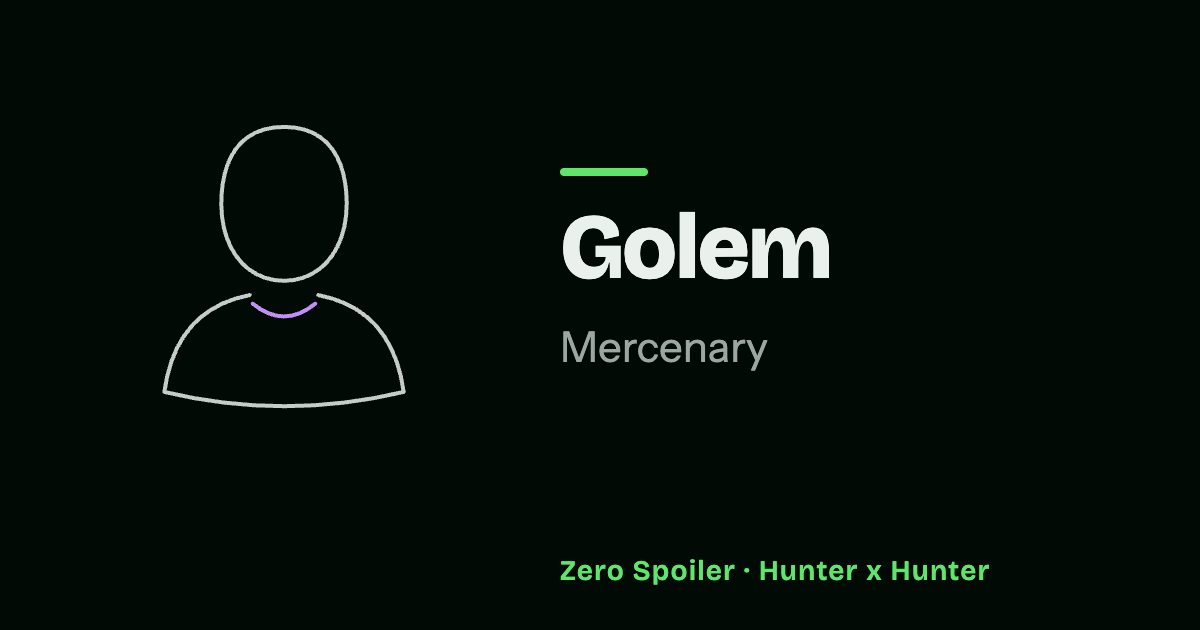
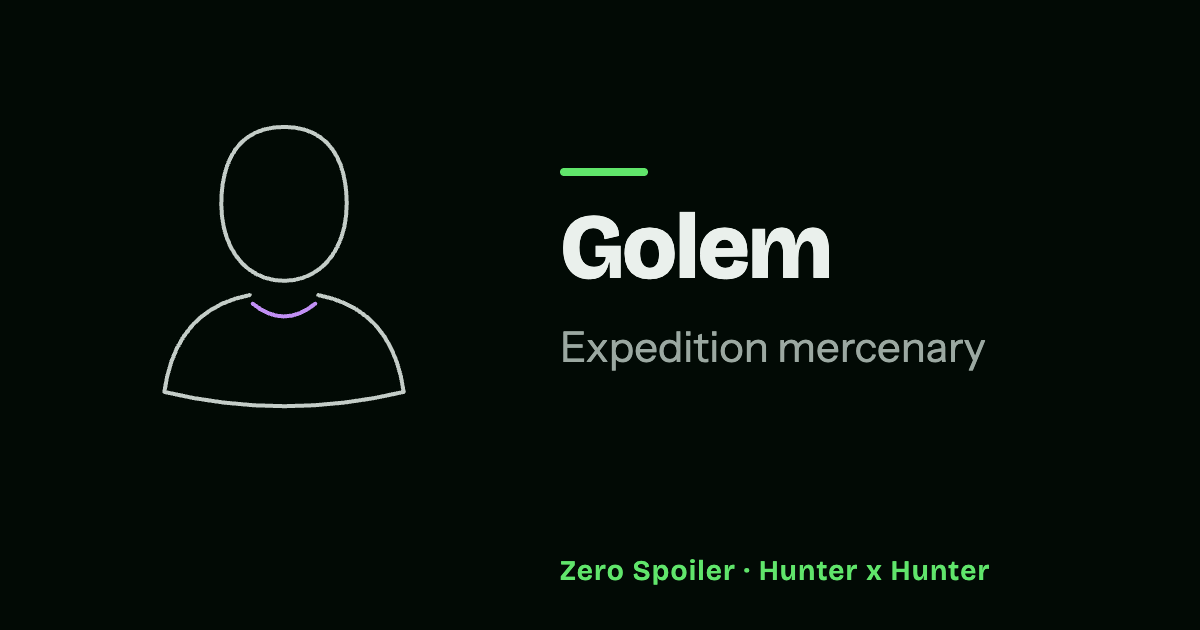
fix(hxh): neutral Kakin family labels, Golem's withheld identity, Maestro di piano

Changed region(s): [[0.4625, 0.5127, 0.8325, 0.6032]]

diff --git a/src/data/series/hunter-x-hunter/records/kakin-phase-1.ts b/src/data/series/hunter-x-hunter/records/kakin-phase-1.ts
@@ -13,7 +13,7 @@ const ROYAL_FAMILY = { it: 'Famiglia reale di Cakin', en: 'Kakin royal family' }
 
 const SIBLING: Link = {
   character: 'tserriednich-hui-guo-rou',
-  type: { it: 'Stessa famiglia', en: 'Sibling' },
+  type: { it: 'Fratello o sorella', en: 'Sibling' },
   summary: {
     it: 'È un altro dei quattordici figli del re.',
     en: 'Is another of the king’s fourteen children.',
@@ -45,10 +45,10 @@ function bodyguard(character: string, name: Name): Link {
 function child(character: string, name: Name): Link {
   return {
     character,
-    type: { it: 'Figlio del re', en: 'Child of the king' },
+    type: { it: 'Figlio o figlia', en: 'Child' },
     summary: {
-      it: `${name.it} è uno dei suoi figli.`,
-      en: `${name.en} is one of her children.`,
+      it: `Ha avuto ${name.it} dal re.`,
+      en: `${name.en} is her child with the king.`,
     },
   }
 }
@@ -473,7 +473,7 @@ export const KAKIN_PHASE_ONE: Pick<HunterSaga, 'dossiers' | 'entries'> = {
             },
             {
               character: 'woble-hui-guo-rou',
-              type: { it: 'Stessa famiglia', en: 'Sibling' },
+              type: { it: 'Fratello o sorella', en: 'Sibling' },
               summary: {
                 it: 'È un altro dei quattordici figli del re.',
                 en: 'Is another of the king’s fourteen children.',
@@ -552,7 +552,6 @@ export const KAKIN_PHASE_ONE: Pick<HunterSaga, 'dossiers' | 'entries'> = {
       status: [
         { episode: 148, chapter: 340, source: 'chapter', value: 'alive' },
         { episode: 148, chapter: 341, source: 'chapter', value: 'captured' },
-        { episode: 148, chapter: 342, source: 'chapter', value: 'imprisoned' },
       ],
       relationships: [
         {
@@ -615,10 +614,10 @@ export const KAKIN_PHASE_ONE: Pick<HunterSaga, 'dossiers' | 'entries'> = {
       ],
     },
     'golem': {
-      role: { it: 'Mercenario', en: 'Mercenary' },
+      role: { it: 'Mercenario della spedizione', en: 'Expedition mercenary' },
       log: {
-        it: 'Dice a Ging che i compagni lo chiamano Golem e rifiuta altre domande sulla sua identità. Le sue armi vengono usate insieme ai proiettili prodotti da un altro utilizzatore di Nen.',
-        en: 'He tells Ging that his comrades call him Golem and refuses further questions about his identity. His weapons are used with bullets produced by another Nen user.',
+        it: 'Dice a Ging che i compagni usano il nome Golem e rifiuta altre domande su chi ci sia dentro. Le sue armi sparano i proiettili prodotti da un altro utilizzatore di Nen.',
+        en: 'Tells Ging that the comrades use the name Golem and refuses further questions about who is inside. Its weapons fire bullets produced by another Nen user.',
       },
       affiliation: [
         {
@@ -645,7 +644,7 @@ export const KAKIN_PHASE_ONE: Pick<HunterSaga, 'dossiers' | 'entries'> = {
               type: { it: 'Capo della spedizione', en: 'Expedition leader' },
               summary: {
                 it: 'Fa parte della squadra riunita per il viaggio di Beyond.',
-                en: 'He belongs to the team assembled for Beyond’s voyage.',
+                en: 'Belongs to the team assembled for Beyond’s voyage.',
               },
             },
             {
@@ -653,7 +652,7 @@ export const KAKIN_PHASE_ONE: Pick<HunterSaga, 'dossiers' | 'entries'> = {
               type: { it: 'Nuovo numero due', en: 'New number two' },
               summary: {
                 it: 'Ging esamina il funzionamento delle sue armi e accetta che gli ordini sul campo restino ai soldati.',
-                en: 'Ging examines how his weapons work and accepts that battlefield orders remain with the soldiers.',
+                en: 'Ging examines how its weapons work and accepts that battlefield orders remain with the soldiers.',
               },
             },
           ],

diff --git a/src/server/archive/kakinPhase1.test.ts b/src/server/archive/kakinPhase1.test.ts
@@ -48,7 +48,6 @@ const GATES: [string, number][] = [
 ]
 const PINS: [string, Field, number][] = [
   ['beyond-netero', 'status', 341],
-  ['beyond-netero', 'status', 342],
   ['gon-freecss', 'role', 344],
   ['gon-freecss', 'role', 345],
   ['leorio-paradinight', 'role', 343],
@@ -76,6 +75,15 @@ const PINS: [string, Field, number][] = [
   ['benjamin-hui-guo-rou', 'relationships', 349],
   ['unma-hui-guo-rou', 'relationships', 349],
   ['tyson-hui-guo-rou', 'relationships', 350],
+  ['beyond-netero', 'relationships', 340],
+  ['izunavi', 'relationships', 350],
+  ['momoze-hui-guo-rou', 'relationships', 350],
+  ['marayam-hui-guo-rou', 'relationships', 350],
+  ['woble-hui-guo-rou', 'relationships', 350],
+  ['golem', 'relationships', 347],
+  ['zigg-zoldyck', 'relationships', 344],
+  ['curly', 'relationships', 346],
+  ['mark', 'relationships', 345],
 ]
 
 const ANIME_HIDDEN = [...GATES.map(([id]) => id), 'dark-continent']

diff --git a/src/data/series/hunter-x-hunter/records/hunter-exam.ts b/src/data/series/hunter-x-hunter/records/hunter-exam.ts
@@ -1100,10 +1100,7 @@ const earlyExam: HunterSaga = {
           episode: 148,
           chapter: 351,
           source: 'chapter',
-          value: {
-            it: 'Hunter, Maestro del Piano',
-            en: 'Hunter, Floor Master',
-          },
+          value: { it: 'Hunter, Maestro di piano', en: 'Hunter, Floor Master' },
         },
       ],
       log: {

diff --git a/src/data/series/hunter-x-hunter/records/yorknew-city.ts b/src/data/series/hunter-x-hunter/records/yorknew-city.ts
@@ -1296,7 +1296,7 @@ export const yorknewCity: HunterSaga = {
           chapter: 351,
           source: 'chapter',
           value: {
-            it: 'Capo della Brigata Fantasma, Maestro del Piano',
+            it: 'Capo della Brigata Fantasma, Maestro di piano',
             en: 'Phantom Troupe leader, Floor Master',
           },
         },

diff --git a/src/test/series.ts b/src/test/series.ts
@@ -121,7 +121,7 @@ const EXPECTED: Record<string, Expected> = {
       chronicles: 691,
       linkedOrigins: 8,
       places: 40,
-      statuses: 285,
+      statuses: 284,
       timelines: 899,
       visits: 0,
     },

diff --git a/docs/content-provenance/hunter-x-hunter-kakin-phase-1.md b/docs/content-provenance/hunter-x-hunter-kakin-phase-1.md
@@ -130,7 +130,7 @@ mention or appearance adds no second dossier.
 | Heavens Arena                                                                                     | Existing                                    | The Floor Master fight takes place here in 351–357.                                                                                                                                           |
 | Hunter Association headquarters                                                                   | Existing building, no new descriptor record | The Zodiacs’ meetings and Beyond’s detention use the existing headquarters.                                                                                                                   |
 | IPA laboratory/basement, expedition-team hideout, Hui Guo Rou hotel/nightclub                     | Omitted as independent places               | The story visits them, but no independent, explicit in-story place name was established.                                                                                                      |
-| Black Whale 1                                                                                     | Phase 2                                     | Named in the chapter 342 presentation, first visited on board in 358.                                                                                                                         |
+| Black Whale                                                                                       | Phase 2                                     | Named in the chapter 342 presentation, first visited on board in 358.                                                                                                                         |
 | Lake Mobius, New Continent, Varvard University, Lubo and historic countries in expedition reports | Omitted                                     | Mentions, destinations, institutions or historic summaries do not independently establish a named visited place in this phase.                                                                |
 
 ## Italian names

diff --git a/README.md b/README.md
@@ -88,7 +88,8 @@ Exam, Heavens Arena, Yorknew City, Greed Island, Chimera Ant, Election and the
 start of Kakin, with 200+ characters and about forty places. Game of Thrones
 currently covers the first season and the first book, with 120+ characters and
 20+ places. All three series are available in Italian and English. Every One
-Piece and Hunter x Hunter entry has its own line drawing made for this project,
+Piece and Hunter x Hunter entry has its own line drawing made for this project
+(the newest Hunter x Hunter records show a placeholder until theirs is drawn),
 and some are redrawn from the episode the story changes them. Most Game of
 Thrones entries show a plain placeholder until theirs are drawn. There is no
 official artwork.
